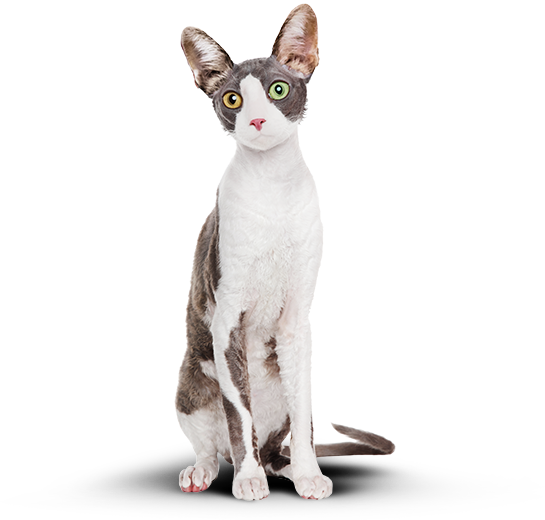
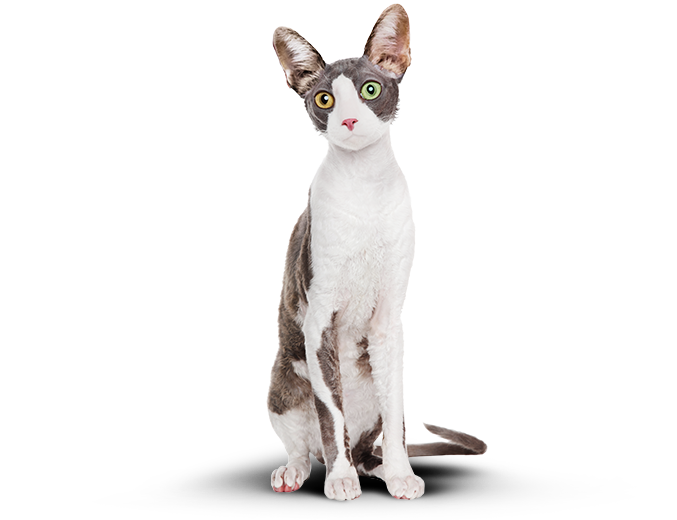
Добавлен слайдер

Changed region(s): [[0.1872, 0.0, 0.7174, 0.9846]]

diff --git a/source/index.html b/source/index.html
@@ -109,30 +109,34 @@
           </div>
         </dl>
         <b class="instance__lead">Затраты на питание: <span class="instance__ammount">15&nbsp;000&nbsp;руб.</span></b>
-        <ul class="instance__picture-list slider">
-          <li class="instance__picture-item instance__picture-item--before slider__item">
+        <ul class="instance__picture-list">
+          <li class="instance__picture-item instance__picture-item--before js-instance__picture-item--before">
             <picture>
+              <source type="image/webp" media="(min-width: 1440px)" srcset="img/cat-before-desktop.webp 1x, img/cat-before-desktop@2x.webp 2x">
               <source type="image/webp" media="(min-width: 768px)" srcset="img/cat-before-tablet.webp 1x, img/cat-before-tablet@2x.webp 2x">
               <source type="image/webp" srcset="img/cat-before.webp 1x, img/cat-before@2x.webp 2x">
+              <source media="(min-width: 1440px)" srcset="img/cat-before-desktop.png 1x, img/cat-before-desktop@2x.png 2x">
               <source media="(min-width: 768px)" srcset="img/cat-before-tablet.png 1x, img/cat-before-tablet@2x.png 2x">
               <img class="instance__picture-image instance__picture-image--before" src="img/cat-before.png" srcset="img/cat-before@2x.png 2x" width="311" height="232" alt="Изображение питомца до программы">
             </picture>
           </li>
-          <li class="instance__picture-item instance__picture-item--after slider__item">
+          <li class="instance__picture-item instance__picture-item--after js-instance__picture-item--after">
             <picture>
+              <source type="image/webp" media="(min-width: 1440px)" srcset="img/cat-after-desktop.webp 1x, img/cat-after-desktop@2x.webp 2x">
               <source type="image/webp" media="(min-width: 768px)" srcset="img/cat-after-tablet.webp 1x, img/cat-after-tablet@2x.webp 2x">
               <source type="image/webp" srcset="img/cat-after.webp 1x, img/cat-after@2x.webp 2x">
-              <source media="(min-width: 768px)" srcset="img/cat-after-tablet.png 1x, img/cat-after-tablet@2x.png 2x ">
+              <source media="(min-width: 1440px)" srcset="img/cat-after-desktop.png 1x, img/cat-after-desktop@2x.png 2x">
+              <source media="(min-width: 768px)" srcset="img/cat-after-tablet.png 1x, img/cat-after-tablet@2x.png 2x">
               <img class="instance__picture-image instance__picture-image--after" src="img/cat-after.png" srcset="img/cat-after@2x.png 2x" width="251" height="240" alt="Изображение питомца после программы">
             </picture>
           </li>
         </ul>
-        <div class="instance__toggles slider__toggles">
-          <button class="slider__toggle slider__toggle--before"><span class="visually-hidden">переключить на изображение питомца до программы</span>Было</button>
-          <div class="slider__range-scale">
-            <div class="slider__range-toggle"></div>
+        <div class="instance__toggles slider js-slider">
+          <button class="slider__toggle slider__toggle--before js-slider__toggle--before"><span class="visually-hidden">переключить на изображение питомца до программы</span>Было</button>
+          <div class="slider__range-scale js-slider__range-scale">
+            <div class="slider__range-toggle js-slider__range-toggle"></div>
           </div>
-          <button class="slider__toggle slider__toggle--after"><span class="visually-hidden">переключить на изображение питомца после программы</span>Стало</button>
+          <button class="slider__toggle slider__toggle--after js-slider__toggle--after"><span class="visually-hidden">переключить на изображение питомца после программы</span>Стало</button>
         </div>
       </div>
     </section>
@@ -179,7 +183,7 @@
     </div>
   </footer>
 
-  <script src="js/main-navigation.min.js"></script>
+  <script src="js/scripts.min.js"></script>
 
 </body>
 

diff --git a/source/js/scripts.js b/source/js/scripts.js
@@ -1,0 +1,68 @@
+// Main menu
+
+const menu = document.querySelector(".js-main-navigation");
+const menuToggle = menu.querySelector(".js-main-navigation-toggle");
+
+menu.classList.remove("main-navigation--no-js");
+menuToggle.addEventListener("click", function () {
+  menu.classList.toggle("main-navigation--opened");
+});
+
+// Slider
+
+const imageBefore = document.querySelector(".js-instance__picture-item--before");
+const imageAfter = document.querySelector(".js-instance__picture-item--after");
+const slider = document.querySelector(".js-slider");
+const buttonBefore = slider.querySelector(".js-slider__toggle--before");
+const buttonAfter = slider.querySelector(".js-slider__toggle--after");
+const bar = slider.querySelector(".js-slider__range-scale");
+const toggle = slider.querySelector(".js-slider__range-toggle");
+let LimitMovementX;
+let thumbCoord;
+
+function moveThumb(e) {
+  LimitMovementX = {
+    min: 0,
+    max: bar.offsetWidth - toggle.offsetWidth
+  }
+
+  thumbCoord = toggle.offsetLeft + e.movementX;
+
+  if (thumbCoord < LimitMovementX.min) {
+    thumbCoord = LimitMovementX.min;
+  }
+  if (thumbCoord > LimitMovementX.max) {
+    thumbCoord = LimitMovementX.max;
+  }
+
+  toggle.style.left = thumbCoord + "px";
+
+  imageBefore.style.width = 100 - ((thumbCoord * 100) / (bar.offsetWidth - toggle.offsetWidth)) + "%";
+  imageAfter.style.width = ((thumbCoord * 100) / (bar.offsetWidth-toggle.offsetWidth)) + "%";
+}
+
+function onThumbMouseup() {
+  document.removeEventListener("mousemove", moveThumb);
+};
+
+toggle.addEventListener("mousedown", function() {
+  this.addEventListener("dragstart", function(e) {
+    e.preventDefault();
+  });
+  document.addEventListener("mousemove", moveThumb);
+  document.addEventListener("mouseup", onThumbMouseup);
+});
+
+buttonBefore.addEventListener("click", function () {
+  imageBefore.style.width = 100 + "%";
+  imageAfter.style.width = 0;
+  toggle.style.left = 0;
+  bar.style.justifyContent = "flex-start";
+});
+
+buttonAfter.addEventListener("click", function () {
+  imageAfter.style.width = 100 + "%";
+  imageBefore.style.width = 0;
+  toggle.style.left = (bar.offsetWidth - toggle.offsetWidth) + "px";
+  bar.style.justifyContent = "flex-end";
+});

diff --git a/source/sass/blocks/instance.scss b/source/sass/blocks/instance.scss
@@ -235,8 +235,9 @@
     grid-column: 2 / 3;
     grid-row: 1 / 6;
     margin: 0;
-    margin-right: -27px;
+    margin-right: -80px;
     margin-top: -104px;
+    width: 730px;
   }
 }
 
@@ -252,7 +253,7 @@
     }
 
     @media (min-width: $desktop-width) {
-      width: 53.9%;
+      width: 50%;
     }
   }
 
@@ -262,16 +263,18 @@
     right: 43px;
     z-index: -1;
     width: 0;
+    max-width: (241 / 311) * 100%;
 
     @media (min-width: $tablet-width) {
       top: 48px;
-      right: 41px;
-      width: (298 / 677) * 100%;
+      right: 0;
+      left: initial;
+      width: 50%;
     }
 
     @media (min-width: $desktop-width) {
       top: 47px;
-      width: (271 / 677) * 100%;
+      width: 50%;
     }
   }
 }

diff --git a/gulpfile.js b/gulpfile.js
@@ -112,9 +112,9 @@ exports.styles = styles;
 // Scripts
 
 const jsUglify = () => {
-  return gulp.src("source/js/main-navigation.js")
+  return gulp.src("source/js/scripts.js")
   .pipe(uglify())
-  .pipe(rename("main-navigation.min.js"))
+  .pipe(rename("scripts.min.js"))
   .pipe(gulp.dest("build/js"))
   .pipe(sync.stream());
 }
@@ -140,6 +140,7 @@ exports.server = server;
 // Watcher
 
 const watcher = () => {
+  gulp.watch("source/js/**/*.js", gulp.series("jsUglify"));
   gulp.watch("source/sass/**/*.scss", gulp.series("styles"));
   gulp.watch("source/*.html", gulp.series("html"));
 }

diff --git a/source/sass/blocks/slider.scss b/source/sass/blocks/slider.scss
@@ -1,4 +1,4 @@
-.slider__toggles {
+.slider {
   display: flex;
   justify-content: space-between;
   margin: 0 auto;
@@ -66,7 +66,7 @@
 
 .slider__range-scale {
   display: flex;
-  justify-content: left;
+  justify-content: flex-start;
   position: relative;
   align-self: center;
   box-sizing: border-box;

diff --git a/source/catalog.html b/source/catalog.html
@@ -323,7 +323,7 @@
     </div>
   </footer>
 
-  <script src="js/main-navigation.min.js"></script>
+  <script src="js/scripts.min.js"></script>
 
 </body>
 

diff --git a/source/form.html b/source/form.html
@@ -173,7 +173,7 @@
     </div>
   </footer>
 
-  <script src="js/main-navigation.min.js"></script>
+  <script src="js/scripts.min.js"></script>
 
 </body>
 
